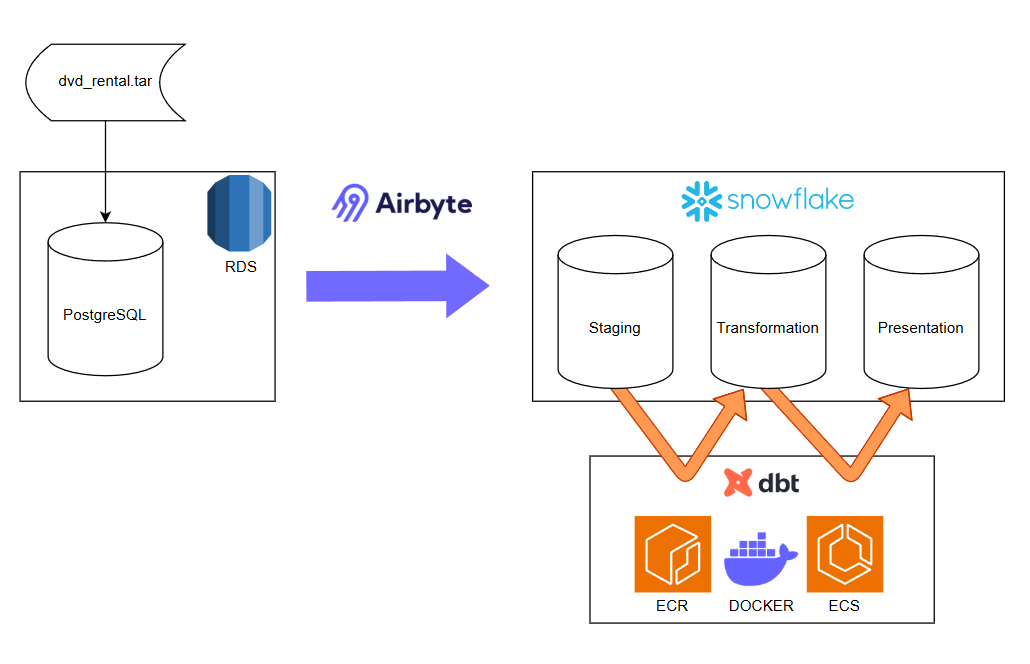
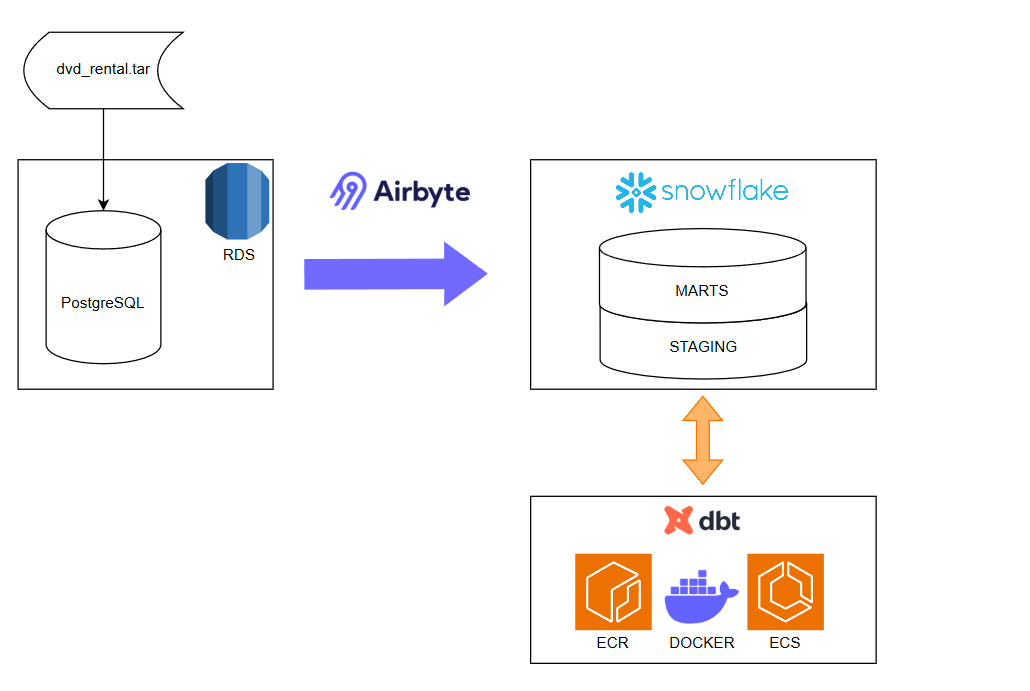
restructure of files

diff --git a/README.md b/README.md
@@ -7,6 +7,7 @@ This is an ETL pipeline using the DVD Rental Database. The DVD Rental Database b
 - Airbyte
 - Snowflake
 - Docker
+- dbt
 
 ## My Implementation
 
@@ -19,10 +20,11 @@ Airbyte Cloud orchestrates the ingestion of data from the source PostgreSQL data
 ![images/airbyte.png](images/airbyte.png)
 
 ### Snowflake
-Snowflake is configured with a "DVD_RENTALS" database, which houses three schemas: "STAGING", "TRANSFORMATION" and "PRESENATION". The source database is initially loaded into "STAGING".
+Snowflake is configured with a "DVD_RENTALS" database, which houses two schemas: "STAGING" and "MARTS". The source database is initially loaded into "STAGING".
 
-### Docker
-For ease of deployment, dbt is run via a Docker container. dbt interfaces with the Snowflake database to generate fact and dimension tables throughout the 
+![images/snowflake.png](images/snowflake.png)
+### Docker and dbt
+For ease of deployment, dbt is run via a Docker container. In my case, I am running dbt with AWS EC2, ECR and ECS. With the help of dbt, the "STAGING" tables in Snowflake are transformed into fact and dimension tables in "MARTS". dbt is used to run a number of data tests via the `.yml` files located in the models folder. dbt also employs an incremental load for all tables in "MARTS". 
 
 ## Solution architecture
 The default implementation of this project is a Docker image deployed to Amazon Web Services (AWS).
